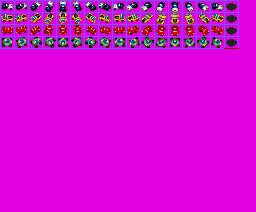
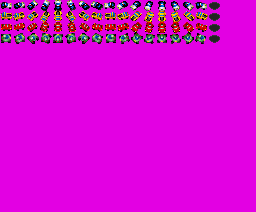
mise a jour

Changed region(s): [[0.0, 0.0, 0.9375, 0.2547]]

diff --git a/MSX/proj/ambidex/test.c b/MSX/proj/ambidex/test.c
@@ -159,6 +159,12 @@ void main(void)
 
 #include "trigo.inc"
 #include "proj.inc"
+// Sprites
+// SX : 13
+// SY : 11
+// 16 sprites/car (208 px)
+// 4 cars (44 px)
+
 
 /**
  *
